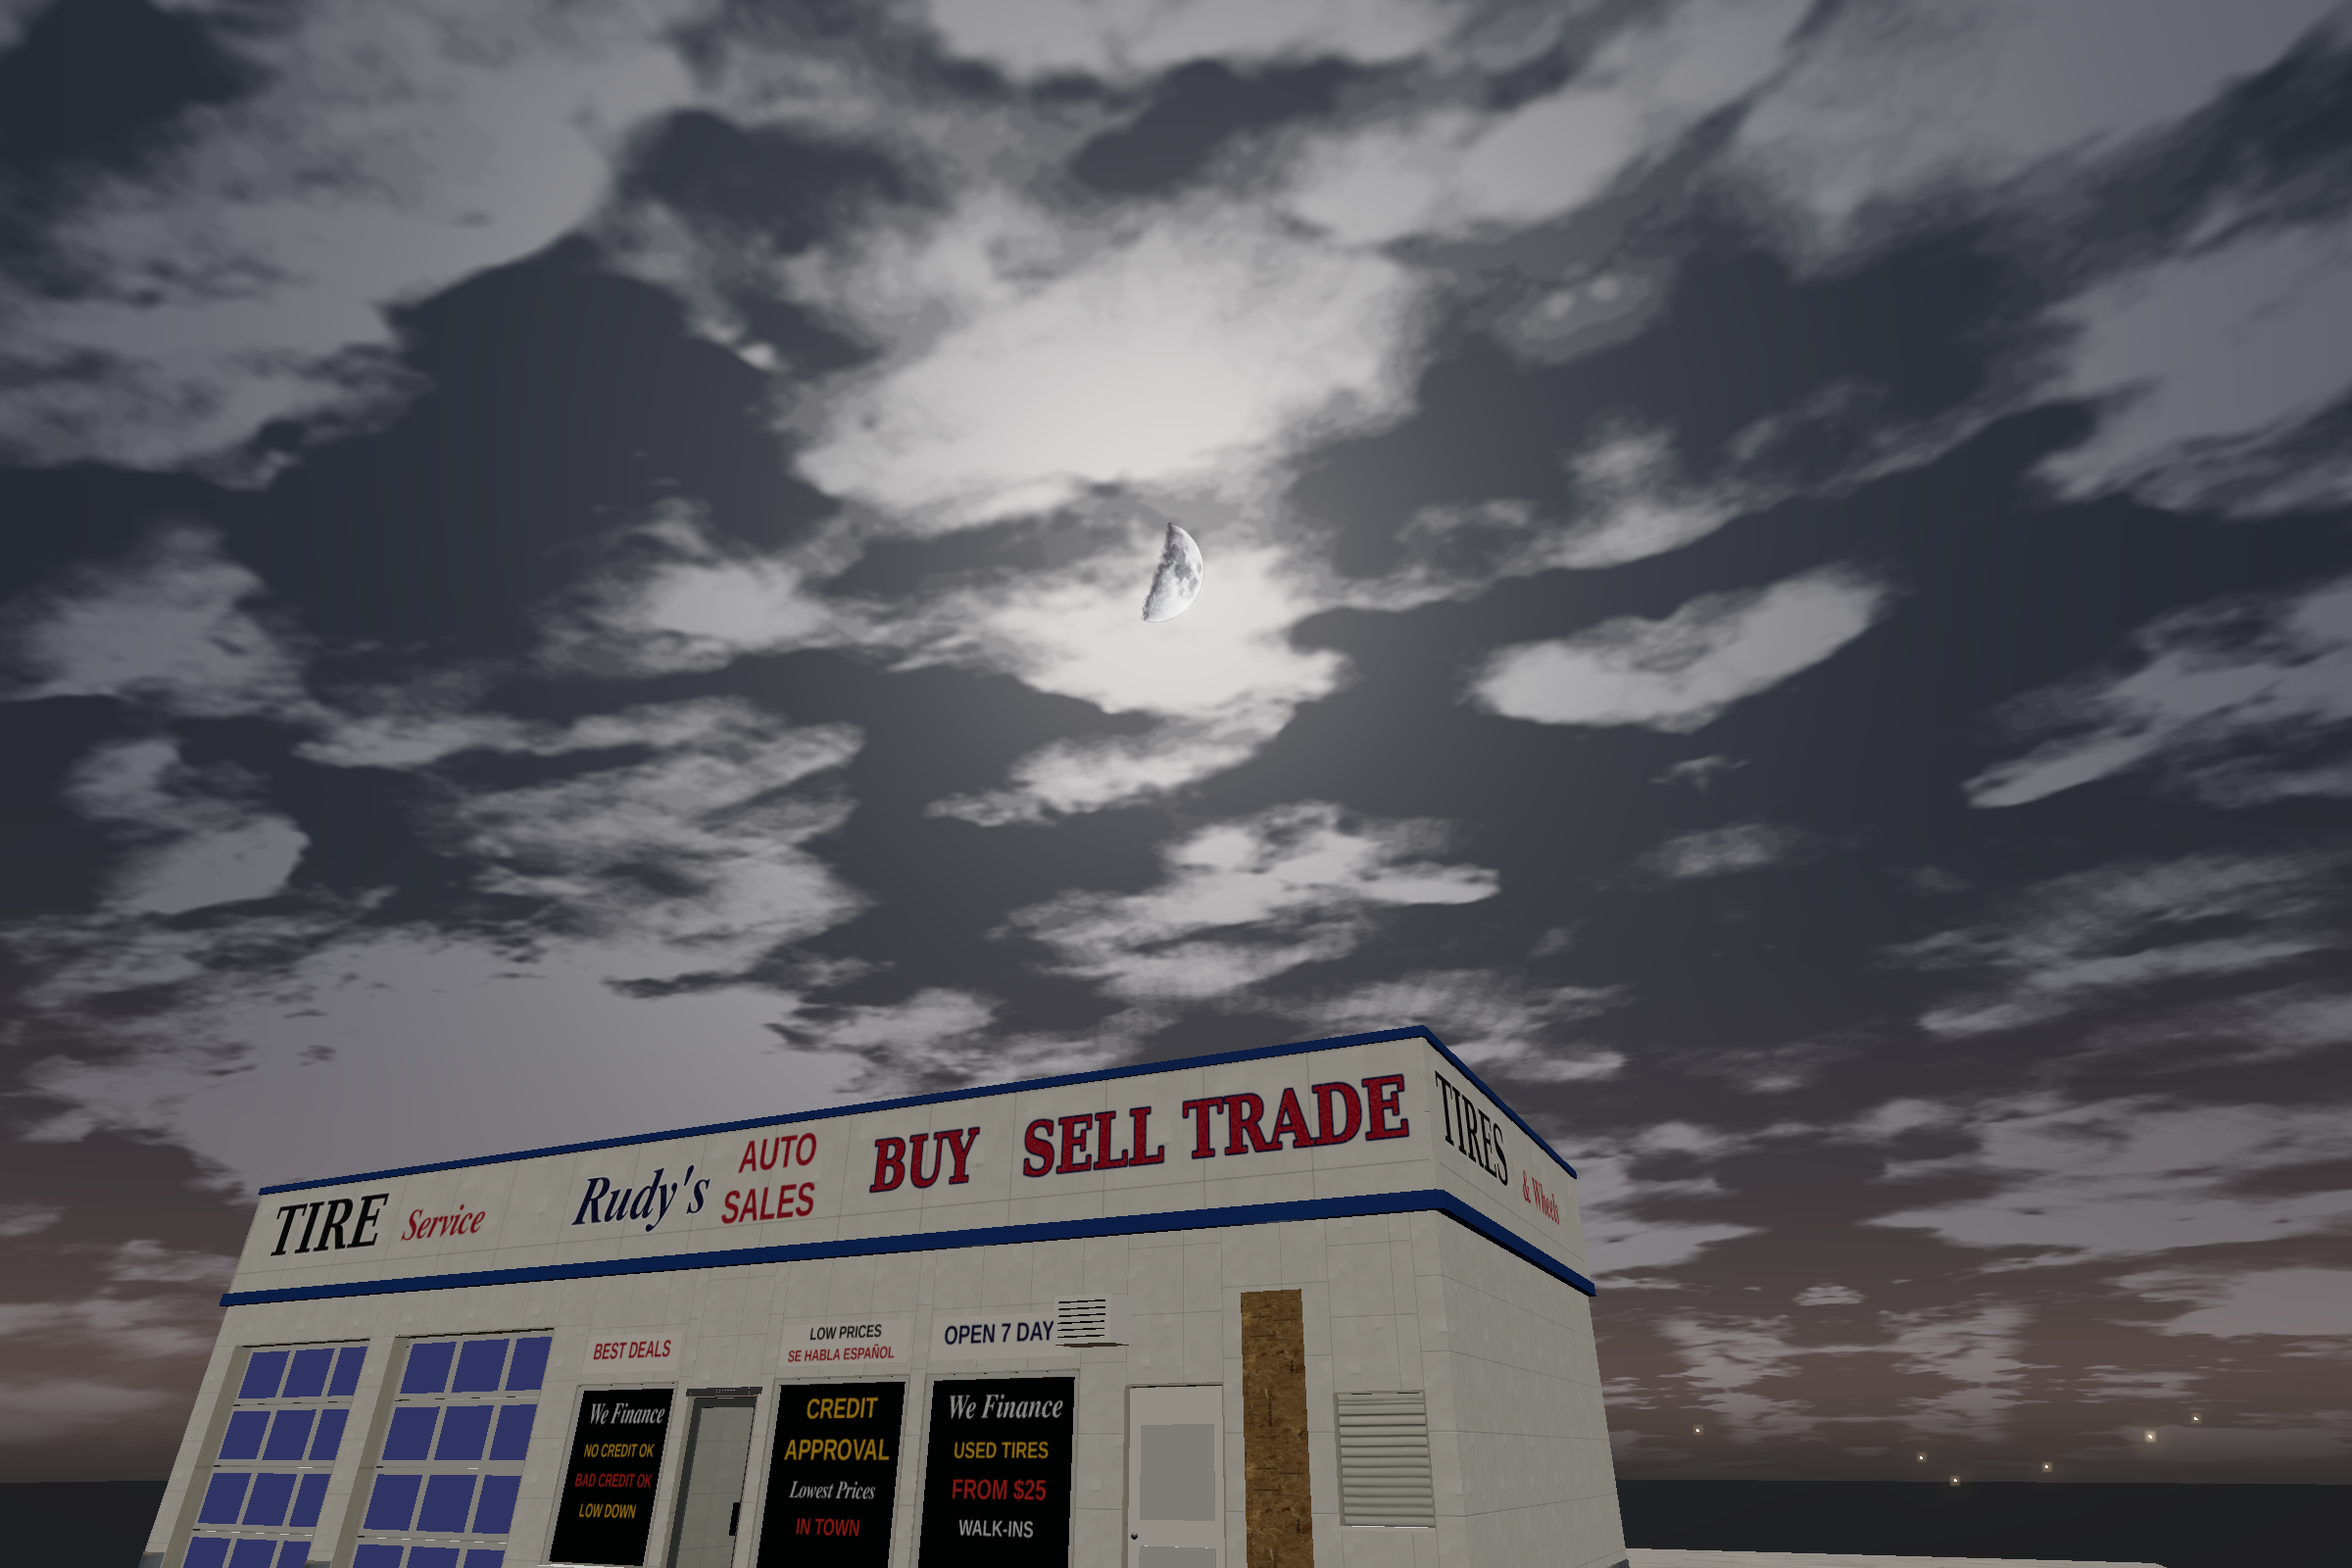
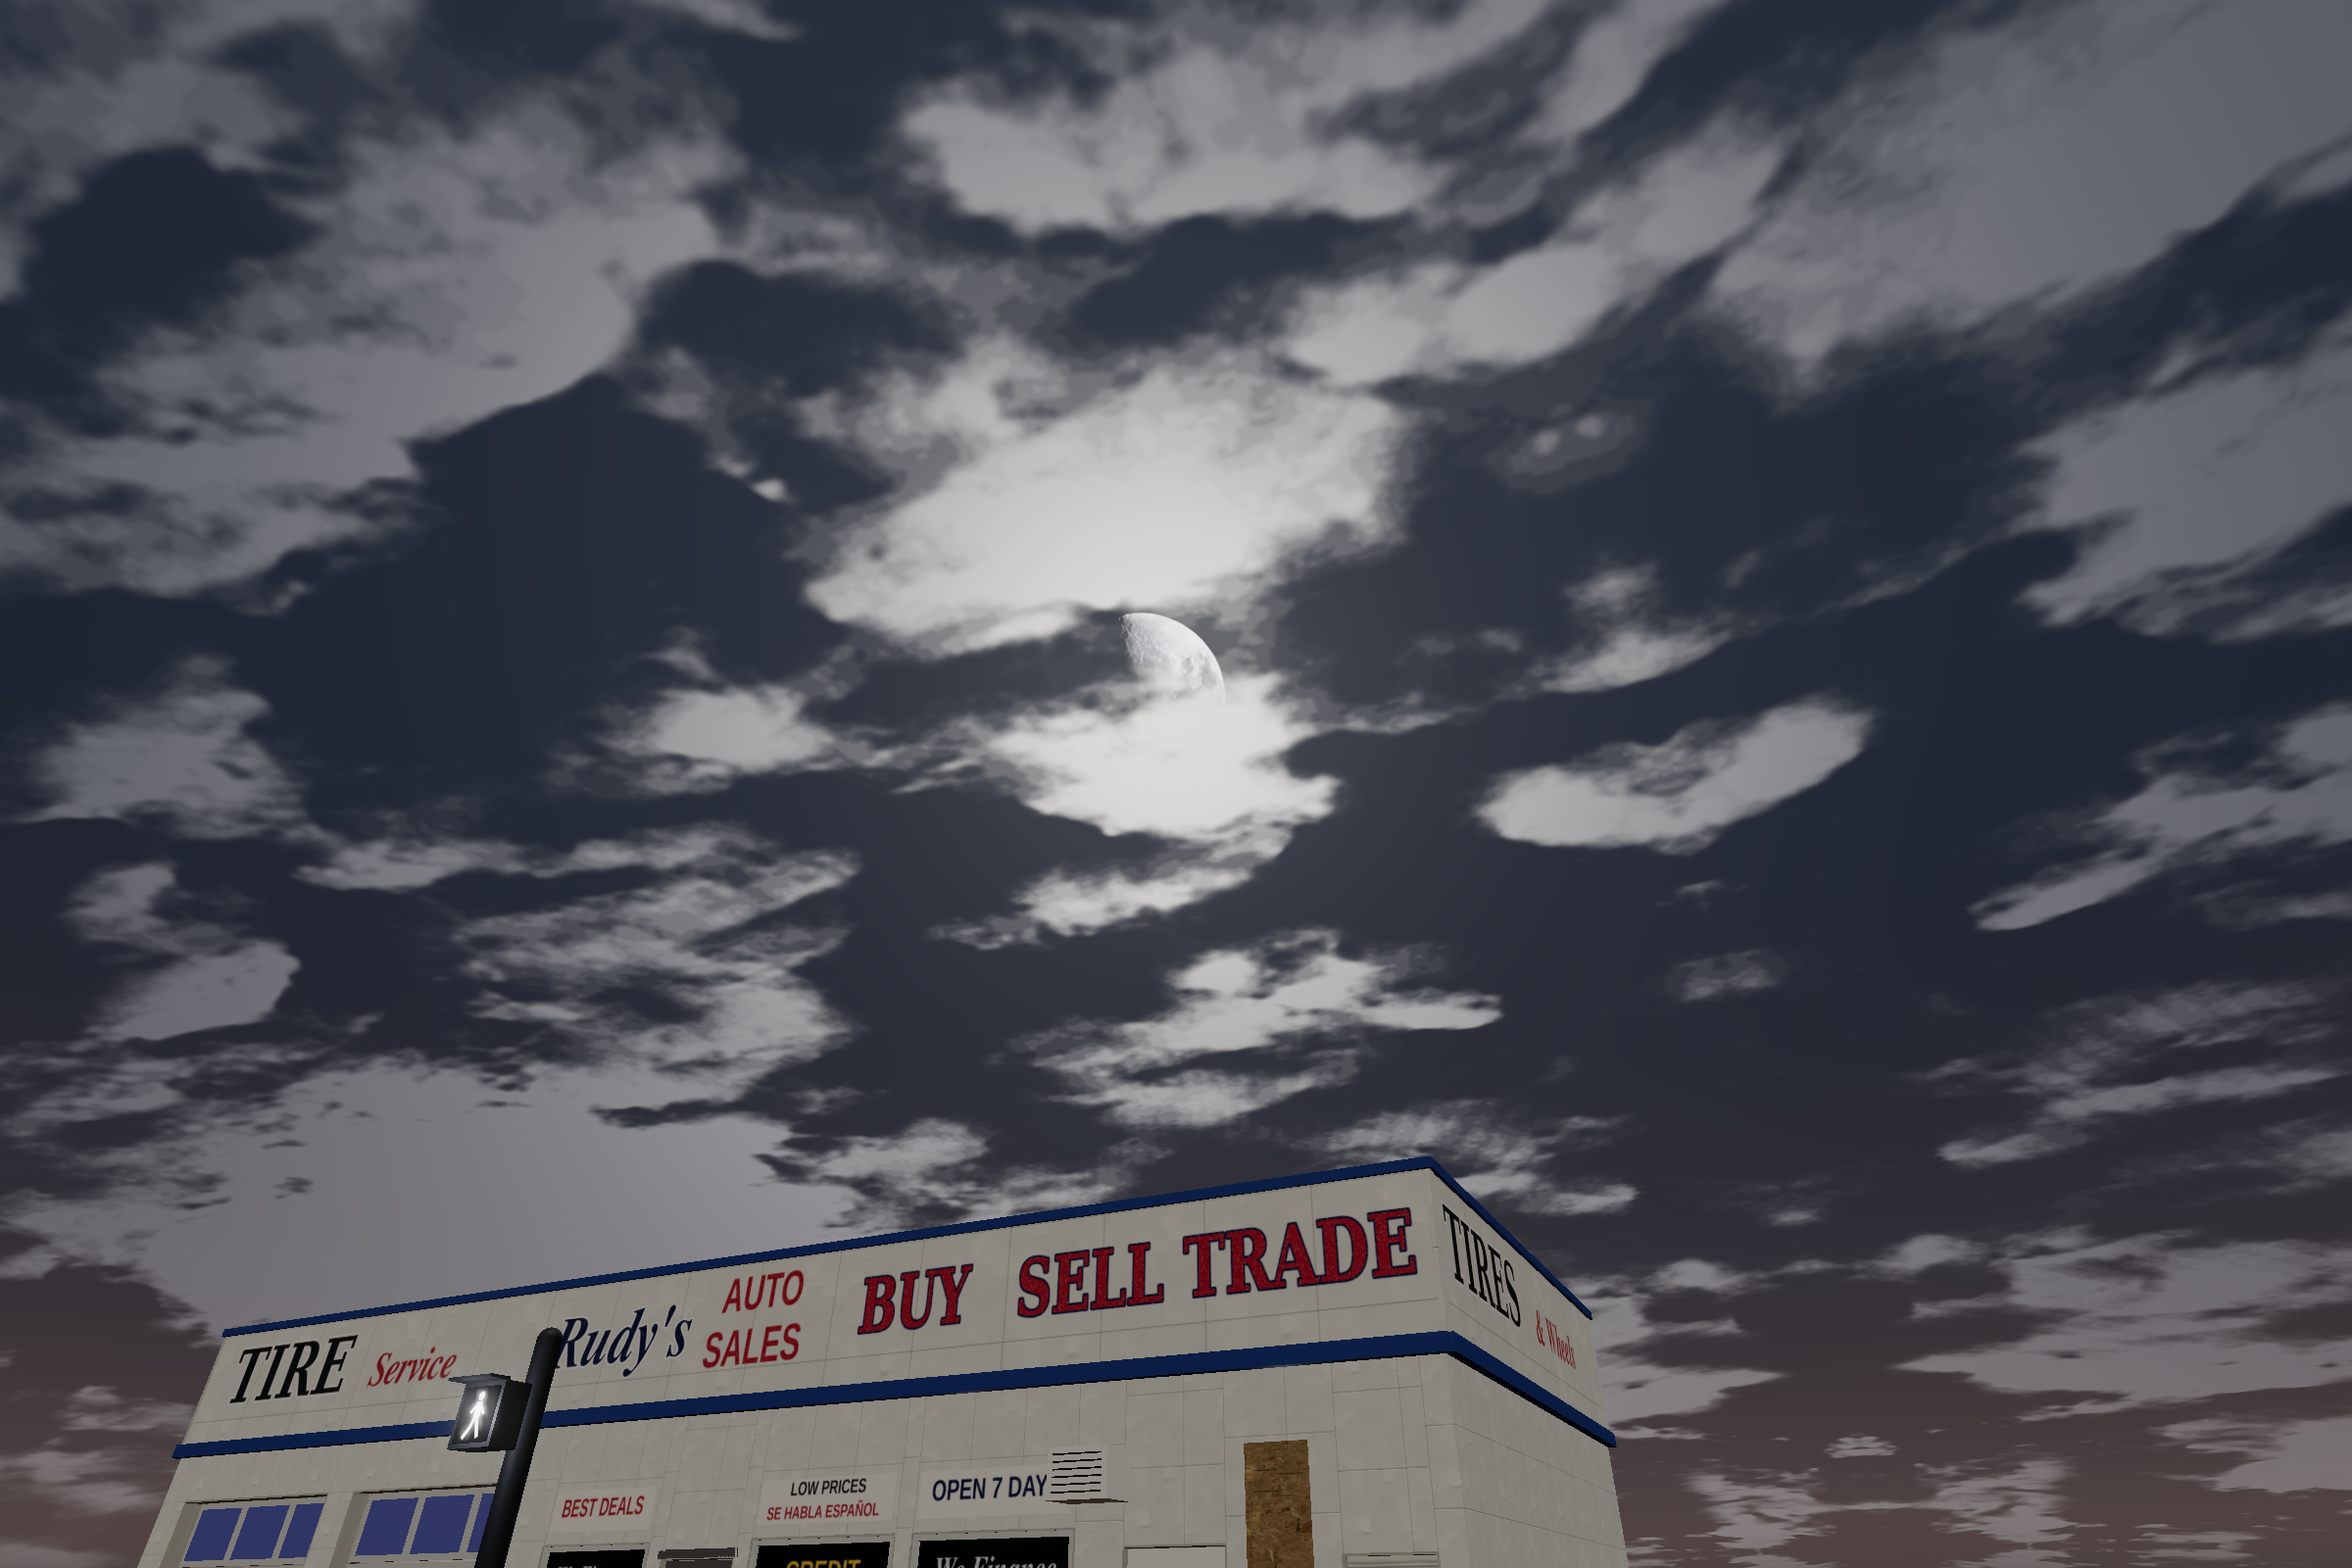
Sky: draw the moon inside the sky shader behind the cloud layer
Claude-Session: https://claude.ai/code/session_01TQrqJmAwukpHBFUrZd2qrz

diff --git a/src/models/sky.js b/src/models/sky.js
@@ -23,6 +23,10 @@ export function makeSky({ moonDir = new THREE.Vector3(-0.35, 0.62, -0.7), radius
       clouds: { value: clouds },
       moonDir: { value: dir },
       time: { value: 0 },
+      moonTex: { value: null },
+      moonRight: { value: new THREE.Vector3() },
+      moonUp: { value: new THREE.Vector3() },
+      moonSize: { value: new THREE.Vector2(0.046, 0.071) },   // half-width, half-height (radians)
     },
     vertexShader: `
       varying vec3 vDir;
@@ -34,6 +38,9 @@ export function makeSky({ moonDir = new THREE.Vector3(-0.35, 0.62, -0.7), radius
       uniform sampler2D clouds;
       uniform vec3 moonDir;
       uniform float time;
+      uniform sampler2D moonTex;
+      uniform vec3 moonRight, moonUp;
+      uniform vec2 moonSize;
       varying vec3 vDir;
       void main() {
         vec3 d = normalize(vDir);
@@ -48,7 +55,18 @@ export function makeSky({ moonDir = new THREE.Vector3(-0.35, 0.62, -0.7), radius
         vec3 night = mix(vec3(0.012, 0.018, 0.035), vec3(0.03, 0.04, 0.06), h);   // sky behind clouds
         vec3 cloudCol = vec3(0.055, 0.06, 0.075) * (0.6 + cover * 0.8);
         cloudCol += vec3(0.95, 0.9, 0.85) * halo * (0.35 + cover * 0.9);         // lit edges near the moon
-        vec3 col = mix(night, cloudCol, 0.55 + cover * 0.45);
+        // the moon sits BEHIND the clouds: draw it into the sky, then lay clouds over it
+        vec3 behind = night;
+        if (m > 0.995) {
+          vec2 mp = vec2(dot(d, moonRight), dot(d, moonUp)) / moonSize * 0.5 + 0.5;
+          if (mp.x > 0.0 && mp.x < 1.0 && mp.y > 0.0 && mp.y < 1.0) {
+            vec4 mt = texture2D(moonTex, mp);
+            behind = mix(behind, pow(mt.rgb, vec3(2.2)) * 1.6, mt.a);
+          }
+        }
+        // thick cloud hides the moon, thin cloud lets it glow through
+        float alpha = 0.22 + 0.78 * smoothstep(0.38, 0.72, c);   // a thin haze everywhere, thick where the clouds are
+        vec3 col = mix(behind, cloudCol, alpha);
         // city glow low on the horizon (the warm cast in the photos)
         col += vec3(0.16, 0.1, 0.06) * pow(1.0 - clamp(h, 0.0, 1.0), 6.0) * 0.6;
         // below the horizon: no clouds, just the dark city haze
@@ -62,20 +80,16 @@ export function makeSky({ moonDir = new THREE.Vector3(-0.35, 0.62, -0.7), radius
   dome.frustumCulled = false;
   g.add(dome);
 
-  // the half moon cut-out (moon photo), slightly behind thin cloud
+  // the half moon cut-out (moon photo), drawn inside the sky shader behind the clouds
   const moonTex = loader.load('assets/textures/moon.png');
-  moonTex.colorSpace = THREE.SRGBColorSpace;
-  const moon = new THREE.Mesh(new THREE.PlaneGeometry(0.65, 1),
-    new THREE.MeshBasicMaterial({ map: moonTex, transparent: true, depthWrite: false, fog: false, color: new THREE.Color(1.5, 1.48, 1.42), toneMapped: false, alphaTest: 0.25 }));
-  moon.scale.setScalar(radius * 0.075);
-  moon.position.copy(dir).multiplyScalar(radius * 0.92);
-  moon.renderOrder = -9;
-  moon.material.depthTest = false; // draw over the sky dome, never behind it
-  g.add(moon);
+  moonTex.colorSpace = THREE.NoColorSpace;   // linearised in the shader
+  mat.uniforms.moonTex.value = moonTex;
+  const right = new THREE.Vector3().crossVectors(new THREE.Vector3(0, 1, 0), dir).normalize();
+  mat.uniforms.moonRight.value.copy(right).negate();
+  mat.uniforms.moonUp.value.crossVectors(dir, right).negate();
 
   g.userData.update = (camera, t) => {
     g.position.copy(camera.position);   // sky follows the viewer
-    moon.lookAt(camera.position);
     mat.uniforms.time.value = t;
   };
   g.userData.moonDir = dir;

diff --git a/QUEUE.md b/QUEUE.md
@@ -103,6 +103,8 @@ Rules (from you):
 32. Ketchup squeeze bottle (food/ketchup-front, -back, -side): red PET bottle with neck band,
     white flip cap with dried ketchup, front label with tomatoes, back nutrition label. Model +
     made-up store brand and label text (no real brand or barcode).
+33. Green circuit board (traces, pads, labels, star screws) and braided elastic cords in black,
+    purple, blue, green, yellow, white (photos/grime/). Labels on the board made generic.
 
 ## Notes for later passes
 - Swap the real text in earlier pieces for made-up text: the boarded-up shop's "1402"
